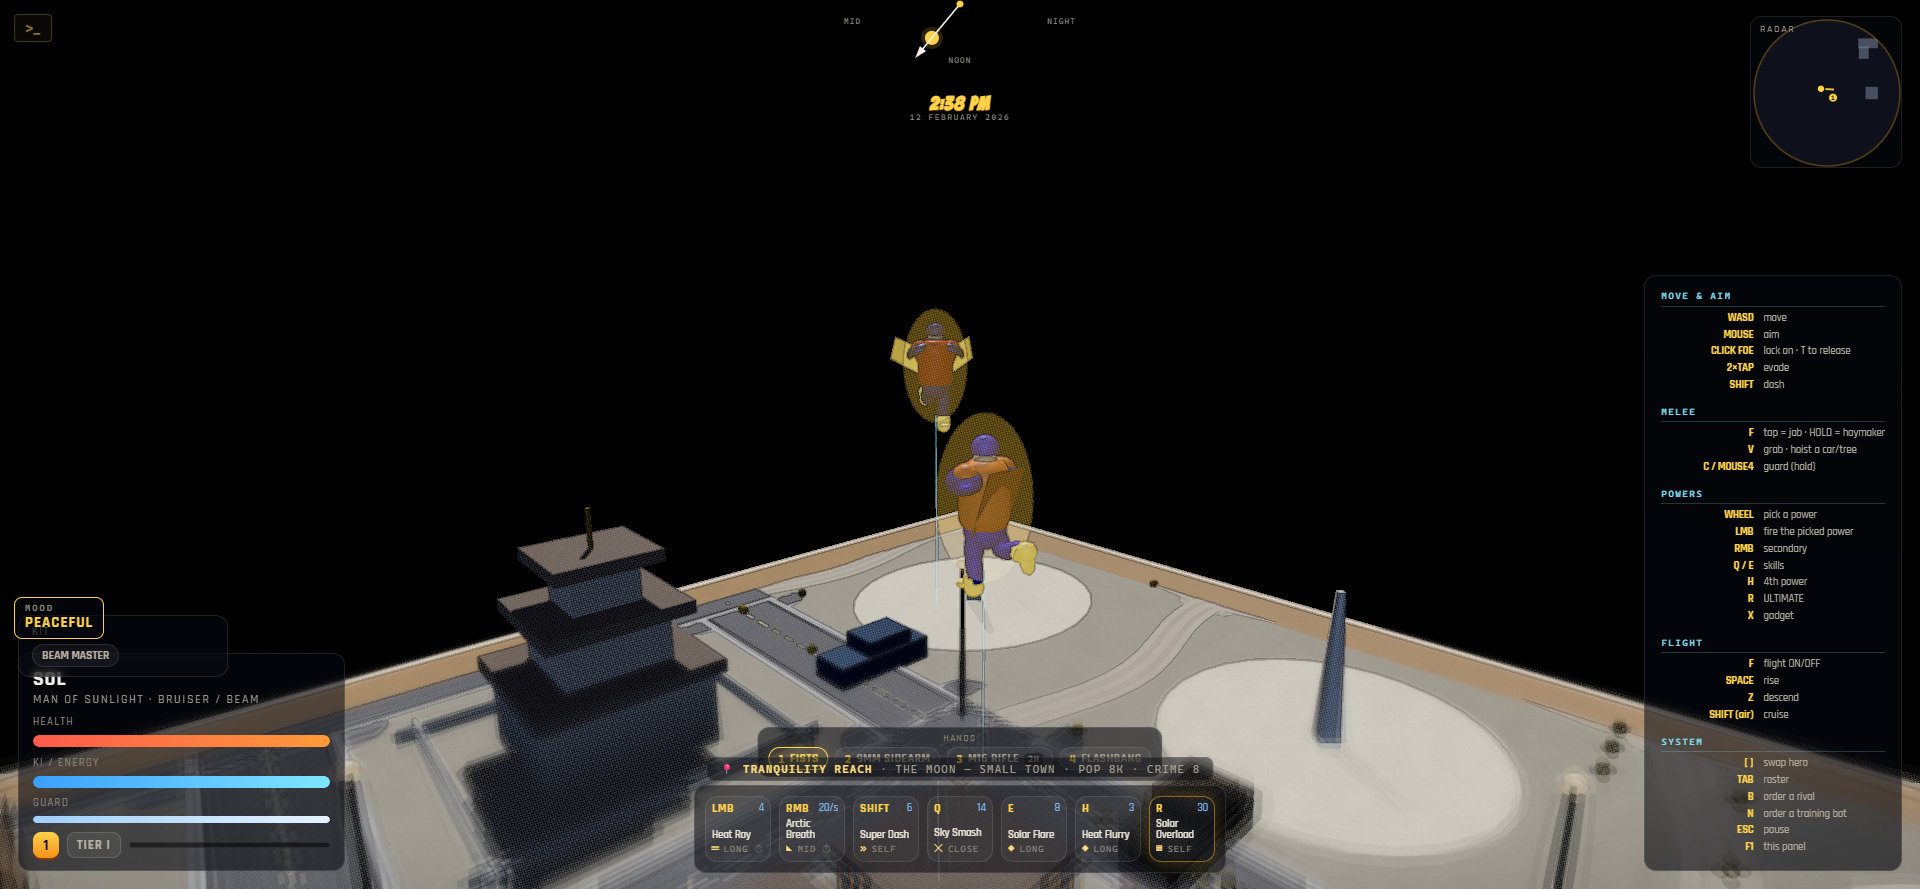
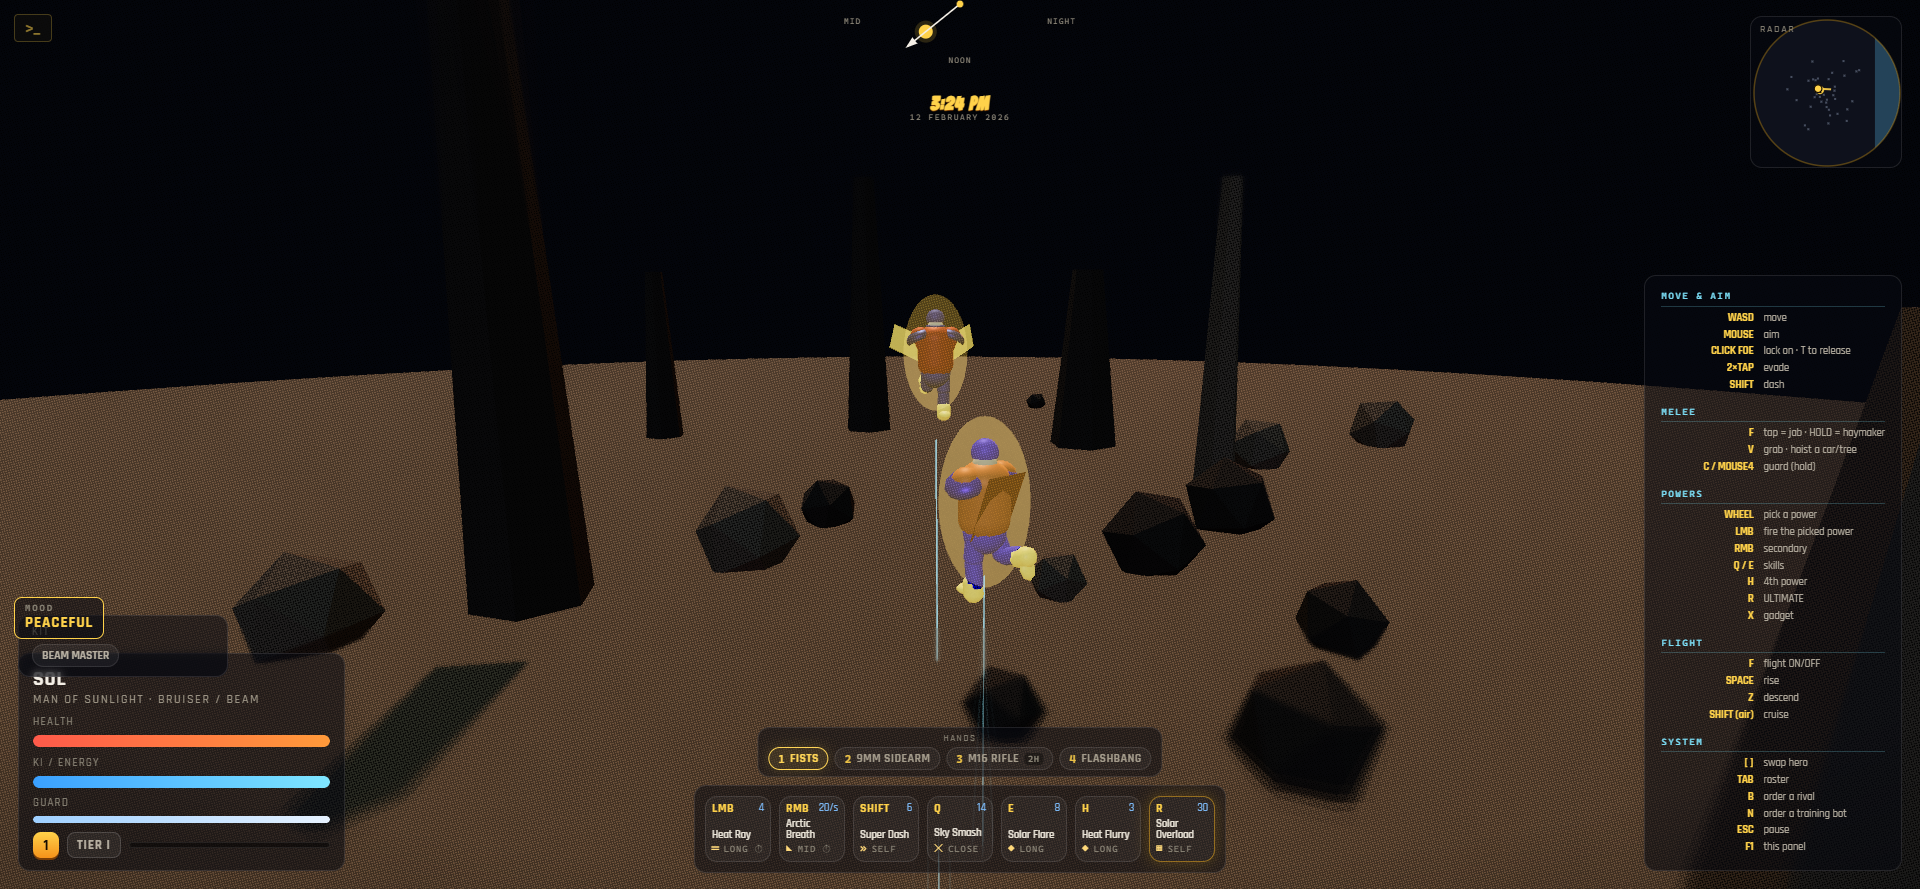
POWERWORLD: the stage, and the chrome that stopped being true
A stage, and the HUD no longer lying about where you are.

⚠ THIS IS A VENUE, NOT A CITY PLAN. `generatePlan` cannot make an empty stage —
its base fill always builds a city — and a new plan KIND is a bigger commitment
than this needs. The pattern instead is the one now proven three times here
(whiteroom, baseroom, boxingring): hide the theatre you arrived in, raise your own
geometry, put every single thing back on the way out. The restore contract is the
hard part, not the rocks.

⚠ WHAT MAKES A BFP STAGE IS NEGATIVE SPACE. The instinct is to build more; the
reference builds less. A DBZ arena is a floor, a horizon, and a few things big
enough to be thrown through — the emptiness is what lets you read a fighter two
hundred units away, and it is why those maps still look right twenty years on.
Every rock here is either a slam target or a scale reference so the sky reads as
far away. Nothing is decorative. 900u disc, 15 spires, 22 boulders, all registered
as cover so `onSlam` and `worldImpact` make hurling someone into one hurt for free.

The sky is PowerWorld's own — cold and thin over warm rock — written into the same
`_dnc` palette the day/night cycle already drives, so the clock keeps running and
the sun still crosses; it just crosses a different sky. ⚠ Every design TOKEN is
identical: the gold accent, the six-step text ramp, the fonts, every hero colour.
Sameness in the chrome is what keeps two dimensions one game. The sky is where a
[…]

diff --git a/src/engine/powerworld.js b/src/engine/powerworld.js
@@ -1,0 +1,170 @@
+// =================================================================================================
+// POWERWORLD — THE STAGE. See docs/POWERWORLD.md.
+//
+// Robert: *"wide open space… no pedestrians, maps look like Bid for Power."*
+//
+// ⚠ THIS IS A VENUE, NOT A CITY PLAN. `generatePlan` cannot make an empty stage — its base fill
+// always builds a city — and a whole new plan KIND is a bigger commitment than this needs. The
+// pattern used instead has now been proven three times in this repo (`whiteroom.js`, `baseroom.js`,
+// `boxingring.js`): hide the theatre you arrived in, raise your own geometry, and put every single
+// thing back on the way out. The restore contract is the hard part, not the rocks.
+//
+// ⚠ WHAT MAKES A BFP STAGE IS NEGATIVE SPACE. The instinct is to build more; the reference builds
+// less. A DBZ arena is a floor, a horizon, and a few things big enough to be thrown through — the
+// emptiness is what lets you read a fighter two hundred units away, and it is why these maps still
+// look right twenty years on. Every rock here is either something to slam someone into or a scale
+// reference so the sky reads as far away. There is nothing decorative.
+// =================================================================================================
+import * as THREE from 'three';
+import { GROUND_LAYER } from '../core/util.js';
+
+export const STAGE = {
+  radius: 900,          // the ground disc. Generous: the chase loop needs somewhere to chase TO.
+  spires: 15,           // slam targets, sparse on purpose
+  boulders: 22,
+  // ⚠ A DIFFERENT DIMENSION SHOULD NOT LOOK LIKE EARTH AT DUSK. This palette is PowerWorld's own —
+  // a cold, high, thin sky over warm rock, so the two worlds are told apart in one glance while the
+  // fighters, the gold accent and every HUD token stay exactly as they are. Sameness in the chrome is
+  // what keeps them one game; the SKY is where a dimension gets to be somewhere else. No purple.
+  sky:  { topDay: '#0d2436', topNight: '#050b12', horDay: '#3f7d86', horNight: '#12222b',
+          glow: '#7fd8ff', sunDay: '#ffe6c4', sunGold: '#ffb066',
+          hemiDay: '#8fd0e0', hemiNight: '#16222c', gndDay: '#6b4a33', gndNight: '#1a1208' },
+  rock: '#6d5340', rockDark: '#3d2d22', ground: '#7a5c44',
+};
+
+export class PowerWorldStage {
+  constructor(game) {
+    this.g = game; this.group = null;
+    this._mats = []; this._hidden = []; this._cover = [];
+    this._props = null; this._cover0 = null; this._coverAll0 = null; this._int0 = null;
+    this._arena0 = null; this._fog0 = null;
+  }
+
+  open() {
+    const g = this.g, W = g.world;
+    if (this.group) this.close();
+    this._hideTheatre();
+    const grp = new THREE.Group(); this.group = grp;
+    const add = (m) => { grp.add(m); return m; };
+
+    const groundM = new THREE.MeshStandardMaterial({ color: STAGE.ground, roughness: 0.97 });
+    const rockM = new THREE.MeshStandardMaterial({ color: STAGE.rock, roughness: 0.9, flatShading: true });
+    const darkM = new THREE.MeshStandardMaterial({ color: STAGE.rockDark, roughness: 0.95, flatShading: true });
+    this._mats.push(groundM, rockM, darkM);
+
+    // ---- THE FLOOR. A disc, not a box: a straight edge would read as a level boundary, and the
+    // whole point is that the horizon is far away and unremarkable.
+    const floor = add(new THREE.Mesh(new THREE.CircleGeometry(STAGE.radius, 64), groundM));
+    floor.rotation.x = -Math.PI / 2;
+    floor.position.y = GROUND_LAYER.shadow * 0.5;   // a rung from the ladder, never an invented number
+    floor.receiveShadow = true;
+
+    // ---- SPIRES. Tall, thin, and REGISTERED AS COVER, because the reason they exist is that being
+    // hurled into one has to hurt — `onSlam` and `worldImpact` already do that work for free.
+    // ⚠ Deterministic placement (a fixed hash, not Math.random) so a stage is the same stage twice.
+    let seed = 1337;
+    const rnd = () => { seed = (seed * 1664525 + 1013904223) % 4294967296; return seed / 4294967296; };
+    for (let i = 0; i < STAGE.spires; i++) {
+      const a = (i / STAGE.spires) * Math.PI * 2 + rnd() * 0.4;
+      const r = 90 + rnd() * 470;
+      const x = Math.cos(a) * r, z = Math.sin(a) * r;
+      const h = 60 + rnd() * 150, w = 9 + rnd() * 16;
+      const m = add(new THREE.Mesh(new THREE.CylinderGeometry(w * 0.45, w, h, 6, 1), rnd() > 0.5 ? rockM : darkM));
+      m.position.set(x, h / 2, z); m.rotation.y = rnd() * 3.14; m.castShadow = h > 90;
+      this._reg(x, z, w, w, h);
+    }
+    // ---- BOULDERS. Low cover and, more importantly, scale: without something human-sized near the
+    // camera a 900u disc reads as a small room.
+    for (let i = 0; i < STAGE.boulders; i++) {
+      const a = rnd() * Math.PI * 2, r = 40 + rnd() * 520;
+      const x = Math.cos(a) * r, z = Math.sin(a) * r, s = 6 + rnd() * 13;
+      const m = add(new THREE.Mesh(new THREE.IcosahedronGeometry(s, 0), rnd() > 0.4 ? rockM : darkM));
+      m.position.set(x, s * 0.55, z); m.rotation.set(rnd() * 3, rnd() * 3, rnd() * 3);
+      this._reg(x, z, s * 1.3, s * 1.3, s * 1.1);
+    }
+    W.scene.add(grp);
+    this._skin();
+    g._pwStage = this;
+    return this;
+  }
+
+  /** A cover record, so physics, LOS and the slam rules all know the rock is there. */
+  _reg(x, z, hx, hz, top) {
+    const W = this.g.world;
+    const co = { x, z, hx: hx * 0.5, hz: hz * 0.5, top, hp: 1e9, maxHp: 1e9 };
+    W.cover.push(co); W.coverAll.push(co); this._cover.push(co);
+  }
+
+  /**
+   * ⚠ THE THEATRE YOU ARRIVED IN IS HIDDEN, NEVER REMOVED — it has to be exactly as you left it when
+   * you cross back. This is `boxingring.js`'s pass, including its hard-won second half: the props are
+   * ARRAYS (`propInReach` walks `world.cars/planes/rocks/treeSpots`, not the scene) and `interiors`
+   * is a THIRD list that physics consults separately from `cover`. Missing either one is an invisible
+   * wall or a hoistable car that is not there.
+   */
+  _hideTheatre() {
+    const g = this.g, W = g.world;
+    this._arena0 = W.ARENA;
+    W.ARENA = STAGE.radius;                       // the sky is open and so is the ground
+    this._hidden = [];
+    const hide = (m) => { if (m && m.visible) { this._hidden.push(m); m.visible = false; } };
+    const keep = new Set([this.group]);
+    for (const e of g.entities) if (e && e.obj) keep.add(e.obj);
+    if (g.particles && g.particles.points) keep.add(g.particles.points);
+    for (const child of W.scene.children) {
+      if (keep.has(child) || child.isLight || child.isCamera) continue;
+      hide(child);
+    }
+    for (const m of (W._cityBits || [])) hide(m);
+    for (const m of (W._roadMeshes || [])) hide(m);
+    this._props = { cars: W.cars, planes: W.planes, rocks: W.rocks, trees: W.treeSpots };
+    W.cars = []; W.planes = []; W.rocks = []; W.treeSpots = [];
+    this._cover0 = W.cover; this._coverAll0 = W.coverAll; this._int0 = W.interiors;
+    W.cover = []; W.coverAll = []; W.interiors = [];
+    W.refreshFogBoxes && W.refreshFogBoxes();
+    if (W.scene.fog) { this._fog0 = W.scene.fog.density; W.scene.fog.density = this._fog0 * 0.35; }
+  }
+
+  /** PowerWorld's own sky, written into the palette the day/night cycle already drives. */
+  _skin() {
+    const W = this.g.world, P = W._dnc, S = STAGE.sky;
+    if (!P) return;
+    // ⚠ WRITTEN INTO `_dnc`, NOT ALONGSIDE IT. The clock keeps running here — the sun still crosses,
+    // dusk still happens — it simply crosses a different sky. And `setSkyWorld(null)` already knows
+    // how to restore every one of these keys from `_dncEarth`, so the exit path costs nothing new.
+    // ⚠ STASH WHICH SKY WE CAME FROM. `setSkyWorld(null)` restores EARTH, and the theatre you
+    // travelled from may well not be Earth — measured: crossing back into Tranquility Reach handed
+    // the Moon an Earth sky. Restore the id, not the default.
+    this._sky0 = W.skyWorld || null;
+    const set = (k, v) => { if (P[k]) P[k].set(v); };
+    set('topDay', S.topDay); set('topNight', S.topNight);
+    set('horDay', S.horDay); set('horNight', S.horNight);
+    set('glowTint', S.glow); set('sunDay', S.sunDay); set('sunGold', S.sunGold);
+    set('hemiDay', S.hemiDay); set('hemiNight', S.hemiNight);
+    set('gndDay', S.gndDay); set('gndNight', S.gndNight);
+    W.skyWorld = 'powerworld';
+  }
+
+  close() {
+    if (!this.group) return;
+    const W = this.g.world;
+    if (this._arena0 != null) { W.ARENA = this._arena0; this._arena0 = null; }
+    if (this._props) { W.cars = this._props.cars; W.planes = this._props.planes; W.rocks = this._props.rocks; W.treeSpots = this._props.trees; this._props = null; }
+    // ⚠ our own cover records leave BOTH arrays before the originals come back, or the next match
+    // inherits invisible rocks — the exact bug the venue paid for.
+    if (this._cover0) { W.cover = this._cover0; W.coverAll = this._coverAll0; this._cover0 = this._coverAll0 = null; }
+    if (this._int0) { W.interiors = this._int0; this._int0 = null; }
+    this._cover = [];
+    W.refreshFogBoxes && W.refreshFogBoxes();
+    for (const m of this._hidden) m.visible = true;
+    this._hidden = [];
+    if (this._fog0 != null && W.scene.fog) { W.scene.fog.density = this._fog0; this._fog0 = null; }
+    W.setSkyWorld(this._sky0 || null);       // the one restore path — and back to the sky we CAME from
+    this._sky0 = null;
+    this.group.traverse(o => { if (o.geometry) o.geometry.dispose(); });
+    for (const m of this._mats) m.dispose();
+    W.scene.remove(this.group);
+    this.group = null; this._mats = [];
+    if (this.g._pwStage === this) this.g._pwStage = null;
+  }
+}

diff --git a/src/engine/game.js b/src/engine/game.js
@@ -22,6 +22,7 @@ import { buildReport } from '../data/news.js';
 import { bookInjury, injuryOf, healBout, koElo, matchElo } from '../data/rankings.js';
 import { SETTINGS, keymap } from '../core/settings.js';
 import { BoxingRing, BOXING } from './boxingring.js';
+import { PowerWorldStage } from './powerworld.js';
 import { STRIKES } from '../data/martial.js';
 import { beamBuildOf, beamTemperOf } from '../data/visual.js';
 import { Gamepad } from '../core/gamepad.js';
@@ -177,6 +178,12 @@ const MODE_IMPL = {
   powerworld: {
     setup(g, o = {}) {
       g.ms = { powerworld: true, chaseCam: true };   // the third-person lock-on view (world.chase)
+      g.pwStage = new PowerWorldStage(g); g.pwStage.open();   // the stage — see engine/powerworld.js
+      // ⚠ THE CITY HUD LIES IN ANOTHER DIMENSION. The nameplate read "TRANQUILITY REACH · THE MOON ·
+      // POP 8K · CRIME 8" while standing on a rock spire in PowerWorld — a surface stating a fact
+      // that is not true of where you are. One body class, and the stylesheet does the rest; the
+      // player panel, the hands row and the radar all stay, because those are still true.
+      document.body.classList.add('powerworld');
       // ⚠ NOBODY LIVES HERE. `police.active` is a GETTER and `news.enabled` is set from the mode id,
       // so neither can be switched off from out here — the honest fix was to give "does this theatre
       // have a civil society" one definition (`hasCivilians` in data/modes.js) that both already read.
@@ -190,6 +197,10 @@ const MODE_IMPL = {
       // open sky, so `fov` goes off and every fighter is drawn.
       // ⚠ The AI honesty law is untouched — `canSee`/`_vis` are what the BOTS read, and they are still
       // computed. This turns off the PLAYER's concealment rendering, not anyone's knowledge.
+      // ⚠ STASHED, because `fov` is a GAME field and would otherwise leak into the next match —
+      // measured: after one visit the city had no fog of war at all and its fog plane stayed hidden.
+      // Restored in `clearTransients`, the one place that empties the board.
+      g._fov0 = g.fov;
       g.fov = false;
       g.world.setFogEnabled && g.world.setFogEnabled(false);
       // THE OPEN SKY. `fitBands` sizes the ceiling from the tallest thing built, and the deck servo
@@ -1542,6 +1553,9 @@ export class Game {
     // this is the one place that empties the board, so the restore belongs here.
     if (this._bands0) { Object.assign(BANDS, this._bands0); this._bands0 = null; }
     if (this._ring) this._ring.close();
+    if (this._pwStage) this._pwStage.close();   // POWERWORLD's stage is a transient like any other
+    document.body.classList.remove('powerworld');   // and the class goes home with it (the reset law)
+    if (this._fov0 != null) { this.fov = this._fov0; this._fov0 = null; }   // and so is a suspended fog of war
     if (this.lab) { try { this.lab.close(); } catch (e) {} this.lab = null; }   // the white room is a transient too
     if (this.baseRoom) { try { this.baseRoom.close(); } catch (e) {} this.baseRoom = null; }   // ⚠ and so is the BASE — its walls are real cover records; leaving them behind is the invisible-wall bug
     if (this.comic) { try { this.comic.clear(); } catch (e) {} }              // captions must not outlive their match

diff --git a/src/engine/hud.js b/src/engine/hud.js
@@ -11,7 +11,7 @@ import { PLANETS, AU_KM, HELIOPAUSE_AU, TERMINATION_SHOCK_AU, SCALE_LADDER, NEAR
 import { clockStr } from '../data/news.js';
 import { GEO_ATTRIBUTION, cityLatLon } from '../data/citycoords.js';
 import { gameDate, dateStr } from '../data/orbits.js';
-import { CSS, CODEX_MOBILE, PHONE_CSS, TABLET_CSS, DECK_CSS } from './hud.styles.js';
+import { CSS, CODEX_MOBILE, PHONE_CSS, TABLET_CSS, DECK_CSS, POWERWORLD_CSS } from './hud.styles.js';
 import { DTYPES, DTYPE_INFO, resistOf, bandOf } from './entity.js';
 import { handLabel } from './hands.js';
 import { glyph, padActive, padFaces } from '../core/glyphs.js';
@@ -169,7 +169,7 @@ export class HUD {
     // a 148px label column, the armament table scrolls sideways instead of clipping, and the
     // pager/close controls grow to thumb size. Steam Deck (1280×800) uses the desktop layout.
     
-    const s = document.createElement('style'); s.textContent = CSS + CODEX_MOBILE + PHONE_CSS + TABLET_CSS + DECK_CSS; document.head.appendChild(s);
+    const s = document.createElement('style'); s.textContent = CSS + CODEX_MOBILE + PHONE_CSS + TABLET_CSS + DECK_CSS + POWERWORLD_CSS; document.head.appendChild(s);
     this.root = document.getElementById('hud');
     this.title = document.getElementById('title');
     this.feedLines = [];

diff --git a/src/engine/hud.styles.js b/src/engine/hud.styles.js
@@ -948,3 +948,16 @@ body.deck .rcard, body.deck .mcard{ outline-offset:3px; }   /* stick-focus reads
   letter-spacing:.14em; color:var(--text-5,#7d776b); margin-top:1px; white-space:nowrap; }
 .slot .sfx b{ color:var(--gold-pale,#e8cf92); font-weight:400; margin-right:4px; font-size:11px; }
 `;
+
+/* ============ POWERWORLD — the chrome that is only true in a city ============
+   ⚠ The tokens, the fonts, the gold accent and every hero colour are IDENTICAL here. Sameness in the
+   chrome is what keeps two dimensions one game; what changes is that a few readouts stop being TRUE.
+   The city nameplate names a city. The wanted stars need a state with police in it. The KMK 9 monitor
+   needs a press. None of those exist in PowerWorld, so they go — and a surface that cannot be true
+   should never be on screen, which is the same rule the armory keeps when it says NOT YET ISSUED. */
+export const POWERWORLD_CSS = `
+body.powerworld #hud .cityplate{ display:none !important; }   /* names a city; there isn't one */
+body.powerworld #hud .wantedrow{ display:none !important; }    /* no police to be wanted by */
+body.powerworld #hud .pip{ display:none !important; }          /* no press, so no monitor */
+body.powerworld #hud .radar .rlab{ color:var(--text-5); }
+`;
